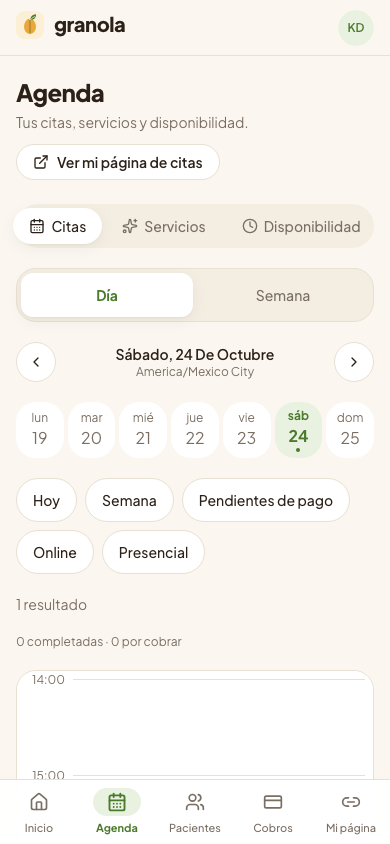
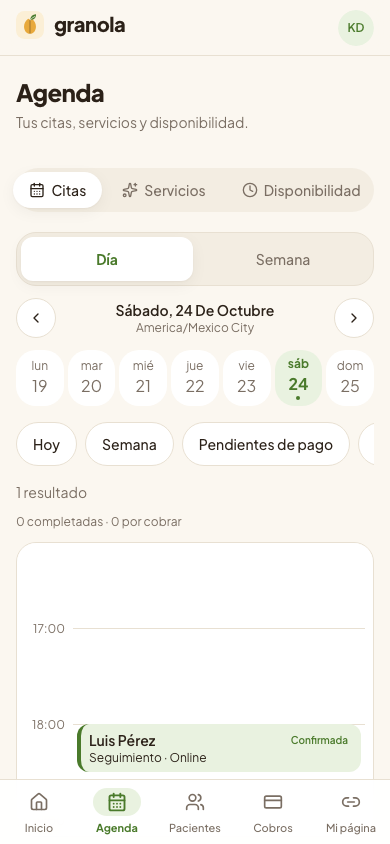
Muestra la cita del día en el primer viewport móvil

diff --git a/apps/web/src/components/cobros/month-filter.tsx b/apps/web/src/components/cobros/month-filter.tsx
@@ -3,11 +3,24 @@
 import { useRouter, useSearchParams } from "next/navigation";
 import { useTransition } from "react";
 
-import { Select, SelectContent, SelectItem, SelectTrigger, SelectValue } from "@granola/ui";
+import {
+  Label,
+  Select,
+  SelectContent,
+  SelectItem,
+  SelectTrigger,
+  SelectValue,
+} from "@granola/ui";
 
 import { monthLabel } from "./format";
 
-export function MonthFilter({ months, value }: { months: string[]; value: string }) {
+export function MonthFilter({
+  months,
+  value,
+}: {
+  months: string[];
+  value: string;
+}) {
   const router = useRouter();
   const params = useSearchParams();
   const [pending, startTransition] = useTransition();
@@ -15,21 +28,30 @@ export function MonthFilter({ months, value }: { months: string[]; value: string
   function onChange(next: string) {
     const sp = new URLSearchParams(params.toString());
     sp.set("mes", next);
-    startTransition(() => router.push(`/app/cobros?${sp.toString()}`, { scroll: false }));
+    startTransition(() =>
+      router.push(`/app/cobros?${sp.toString()}`, { scroll: false }),
+    );
   }
 
   return (
-    <Select value={value} onValueChange={onChange} disabled={pending}>
-      <SelectTrigger className="h-9 w-fit min-w-44 text-sm" aria-label="Mes">
-        <SelectValue />
-      </SelectTrigger>
-      <SelectContent>
-        {months.map((m) => (
-          <SelectItem key={m} value={m}>
-            {monthLabel(m)}
-          </SelectItem>
-        ))}
-      </SelectContent>
-    </Select>
+    <div className="flex flex-col gap-1.5">
+      <Label htmlFor="payment-month">Mes de los cobros</Label>
+      <Select value={value} onValueChange={onChange} disabled={pending}>
+        <SelectTrigger
+          id="payment-month"
+          className="h-9 w-fit min-w-44 text-sm"
+          aria-label="Mes"
+        >
+          <SelectValue />
+        </SelectTrigger>
+        <SelectContent>
+          {months.map((m) => (
+            <SelectItem key={m} value={m}>
+              {monthLabel(m)}
+            </SelectItem>
+          ))}
+        </SelectContent>
+      </Select>
+    </div>
   );
 }

diff --git a/apps/web/src/components/agenda/agenda-calendar.tsx b/apps/web/src/components/agenda/agenda-calendar.tsx
@@ -202,7 +202,7 @@ export function AgendaCalendar({ data }: { data: AgendaData }) {
   }
 
   return (
-    <div className="flex flex-col gap-5">
+    <div className="flex flex-col gap-3">
       <SegmentedControl
         label="Vista de agenda"
         value={view}
@@ -274,10 +274,14 @@ export function AgendaCalendar({ data }: { data: AgendaData }) {
           </button>
         ))}
       </div>
-      <div className="flex flex-wrap gap-2" aria-label="Filtrar citas">
+      <div
+        className="flex gap-2 overflow-x-auto py-1"
+        aria-label="Filtrar citas"
+      >
         {FILTERS.map((filter) => (
           <FilterChip
             key={filter.id}
+            className="shrink-0 whitespace-nowrap"
             pressed={filters.includes(filter.id)}
             onPressedChange={(pressed) => toggle(filter.id, pressed)}
           >
@@ -320,7 +324,7 @@ export function AgendaCalendar({ data }: { data: AgendaData }) {
       {view === "day" ? (
         <div
           ref={timelineViewport}
-          className="max-h-[60dvh] overflow-y-auto overscroll-contain rounded-xl border border-border bg-card px-2 py-4"
+          className="max-h-[35dvh] overflow-y-auto overscroll-contain rounded-xl border border-border bg-card px-2 py-4 sm:max-h-[60dvh]"
         >
           <Timeline
             label="Agenda del día"

diff --git a/apps/web/e2e/agenda.spec.ts b/apps/web/e2e/agenda.spec.ts
@@ -52,7 +52,9 @@ test("Karla consulta Día, cambia a Semana y abre una cita en la hoja inferior",
   await expect(
     page.getByRole("region", { name: "Agenda del día" }),
   ).toBeVisible();
-  await expect(page.getByRole("button", { name: /Luis Pérez/ })).toBeVisible();
+  await expect(page.getByRole("button", { name: /Luis Pérez/ })).toBeInViewport(
+    { ratio: 0.8 },
+  );
   await mobileCapture(page, "03-agenda-dia-390.png");
   await page
     .getByRole("radio", { name: "Semana", exact: true })

diff --git a/apps/web/src/app/(panel)/app/agenda/page.tsx b/apps/web/src/app/(panel)/app/agenda/page.tsx
@@ -119,7 +119,12 @@ async function AgendaContent() {
         title="Agenda"
         description="Tus citas, servicios y disponibilidad."
       >
-        <Button size="sm" variant="outline" asChild>
+        <Button
+          size="sm"
+          variant="outline"
+          className="hidden sm:inline-flex"
+          asChild
+        >
           <a
             href={`/${nutritionist.slug}/agendar`}
             target="_blank"

diff --git a/docs/ux-audit.md b/docs/ux-audit.md
@@ -24,6 +24,8 @@ Referencia: las 12 reglas de `docs/ux-decisions.md`. Se revisaron las páginas d
 
 Login y registro ya usan labels visibles y un submit. Reseña ya usa radios nativos y consentimiento real. Pago, privacidad y confirmación de reserva no introducen selección ni nuevos formularios. Los demás estados asíncronos del panel ya usan Suspense/Skeleton.
 
+- `components/cobros/month-filter.tsx`: label visible y vinculado al selector de mes.
+
 ## Evidencia y reproducción
 
 Los specs `e2e/agenda.spec.ts` y `e2e/booking.spec.ts` cubren semilla → perfil → wizard → cita persistida → agenda → cancelación, más historial del navegador y filtros. Las capturas de `docs/ux-captures/` usan ancho 390 px: perfil, reserva, agenda Día y Semana con Sheet.
